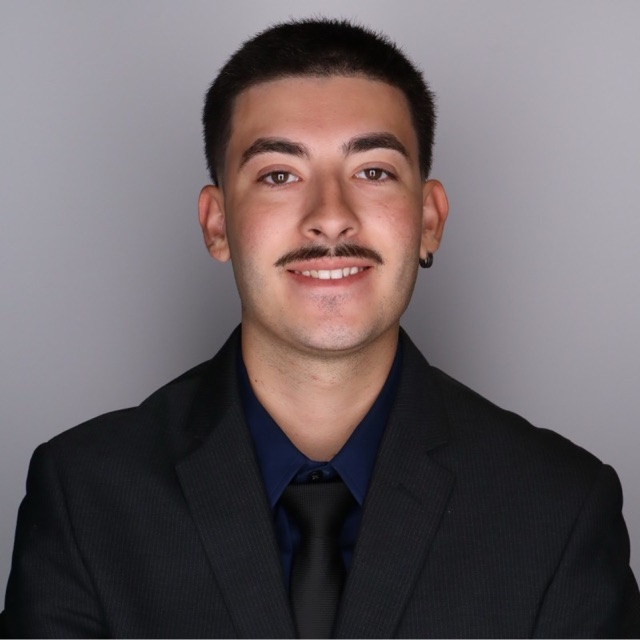
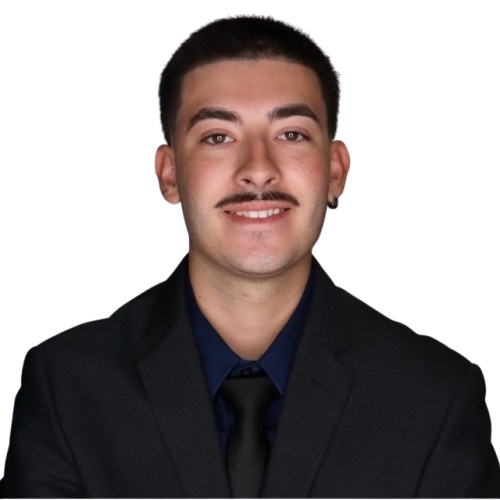
Unify borderless team portraits

diff --git a/assets/home-preview.css b/assets/home-preview.css
@@ -479,9 +479,9 @@ section { width: var(--page); margin: 0 auto; }
 
 .founder-profile { display: grid; grid-template-columns: .9fr 1.1fr; gap: clamp(50px, 9vw, 120px); align-items: center; }
 .founder-portrait { position: relative; }
-.founder-portrait::before { content: ""; position: absolute; inset: 22px -22px -22px 22px; border-radius: 28px; background: var(--blue-soft); }
-.founder-portrait picture { position: relative; overflow: hidden; display: block; aspect-ratio: 1; border-radius: 28px; background: #f4f8ff; }
-.founder-portrait img { width: 100%; height: 100%; object-fit: contain; object-position: center; }
+.founder-portrait::before { content: none; }
+.founder-portrait picture { position: relative; display: block; aspect-ratio: 1; background: transparent; }
+.founder-portrait img { width: 100%; height: 100%; object-fit: contain; object-position: center; mix-blend-mode: multiply; }
 .founder-profile__copy > p:not(.section-label) { margin: 0 0 20px; color: var(--ink-soft); font-size: 17px; line-height: 1.7; }
 .founder-profile__copy h1 { margin: 0 0 30px; font-size: clamp(42px, 5.2vw, 68px); font-weight: 600; letter-spacing: -.05em; line-height: 1; }
 .founder-profile__copy h1 em { color: var(--blue); font-family: var(--serif); font-weight: 400; font-style: italic; }
@@ -490,13 +490,10 @@ section { width: var(--page); margin: 0 auto; }
 .team-section__heading { max-width: 760px; margin-bottom: 54px; }
 .team-section__heading h2 { margin: 0; font-size: clamp(38px, 4.8vw, 62px); font-weight: 600; letter-spacing: -.045em; line-height: 1.02; text-wrap: balance; }
 .team-section__heading h2 em { color: var(--blue); font-family: var(--serif); font-weight: 400; font-style: italic; letter-spacing: -.025em; }
-.team-grid { display: grid; grid-template-columns: repeat(4, minmax(0, 1fr)); gap: 16px; align-items: stretch; }
-.team-card { overflow: hidden; display: grid; grid-template-rows: auto 1fr; min-width: 0; border: 1px solid rgba(0,0,84,.08); border-radius: 24px; background: var(--white); }
-.team-card:nth-child(2) { background: #f1f6ff; }
-.team-card:nth-child(3) { background: #eefbf9; }
-.team-card:nth-child(4) { background: #f4f2ff; }
-.team-card img { display: block; width: 100%; height: clamp(250px, 20vw, 310px); object-fit: contain; object-position: center; background: #f4f8ff; }
-.team-card__body { min-height: 260px; padding: 26px 24px 30px; background: rgba(255,255,255,.92); }
+.team-grid { display: grid; grid-template-columns: repeat(4, minmax(0, 1fr)); gap: clamp(26px, 3vw, 42px); align-items: stretch; }
+.team-card { display: grid; grid-template-rows: auto 1fr; min-width: 0; background: transparent; }
+.team-card img { display: block; width: 100%; height: clamp(250px, 20vw, 310px); object-fit: contain; object-position: center bottom; background: transparent; mix-blend-mode: multiply; }
+.team-card__body { min-height: 260px; padding: 26px 4px 0; background: transparent; }
 .team-card h3 { margin: 0; font-size: 21px; font-weight: 650; letter-spacing: -.025em; line-height: 1.2; }
 .team-card__role { min-height: 38px; margin: 8px 0 20px; color: var(--blue); font-size: 10px; font-weight: 700; letter-spacing: .08em; line-height: 1.4; text-transform: uppercase; }
 .team-card__bio { margin: 0; color: var(--muted); font-size: 13px; line-height: 1.65; }

diff --git a/nosotros.html b/nosotros.html
@@ -46,7 +46,7 @@
           <div class="team-card__body"><h3>Lembit Venegas Kupper</h3><p class="team-card__role">Director de marketing y cofundador</p><p class="team-card__bio">Lidera crecimiento, investigación competitiva y vinculación. Su perspectiva desde Ciudad de México ayuda a que la expansión responda al mercado mexicano.</p></div>
         </article>
         <article class="team-card">
-          <img src="/assets/team/dorian-acosta.jpg" alt="Dorian Acosta" width="640" height="640" loading="lazy" decoding="async">
+          <img src="/assets/team/dorian-acosta.jpg" alt="Dorian Acosta" width="500" height="500" loading="lazy" decoding="async">
           <div class="team-card__body"><h3>Dorian Acosta</h3><p class="team-card__role">Líder de vinculación y operaciones clínicas</p><p class="team-card__bio">Trabaja directamente con consultorios para identificar dónde pesa más el papeleo y suele ser la primera persona de Sorta con quien habla una clínica.</p></div>
         </article>
       </div>
